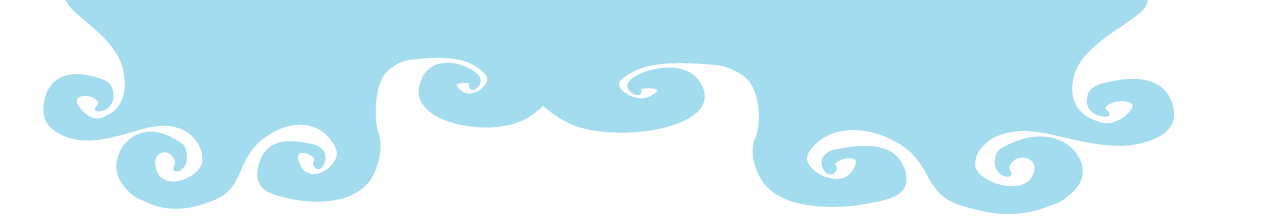
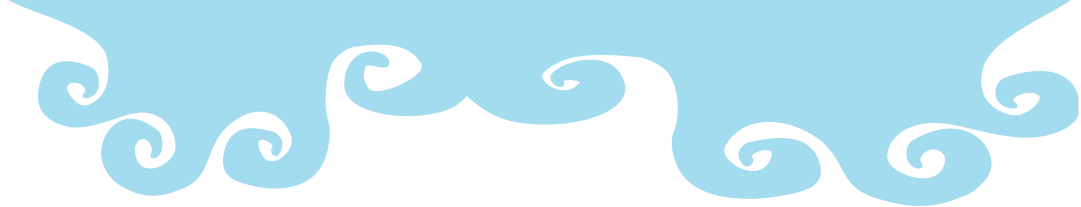
new waves + fixes

diff --git a/style/style.css b/style/style.css
@@ -27,8 +27,8 @@ body {
 
 .jumbotrom {
   padding: 15px;
+  padding-bottom: 0;
   height: 100%;
-  background-color: #F29100;
 }
 
 .jumbotrom--img {
@@ -66,17 +66,22 @@ body {
 
 .waves {
   height: 10vh;
+  padding: 15px;
+  padding-top: 0;
+  position: relative;
+  z-index: -1;
 }
 
 .waves img {
   height: 100%;
   width: 100%;
   position: relative;
+  top: -5px;
 }
 
 @media only screen and (min-width: 40em) {
   .waves {
-    height: 15vh;
+    height: 30vh;
   }
 }
 

diff --git a/style/components/_waves.scss b/style/components/_waves.scss
@@ -1,11 +1,16 @@
 .waves {
     height: 10vh;
+    padding: $padding;
+    padding-top: 0;
+    position: relative;
+    z-index: -1;
     img {
         height: 100%;
         width: 100%;
         position: relative;
+        top: -5px
     }
     @media only screen and (min-width: 40em) {
-        height: 15vh;
+        height: 30vh;
     }
 }

diff --git a/index.html b/index.html
@@ -16,7 +16,7 @@
 			</div>
 		</div>
 		<div class="waves">
-			<img src="assets/img/waves.png" alt="" />
+			<img src="assets/img/w.png" alt="" />
 		</div>
 		<div class="container about">
 			<div class="about--title">

diff --git a/style/components/_jumbotrom.scss b/style/components/_jumbotrom.scss
@@ -1,7 +1,7 @@
 .jumbotrom {
 	padding: $padding;
+	padding-bottom: 0;
 	height: 100%;
-	background-color: $primary;
 	&--img {
 		border-radius: 10px;
 		height: 100%;
